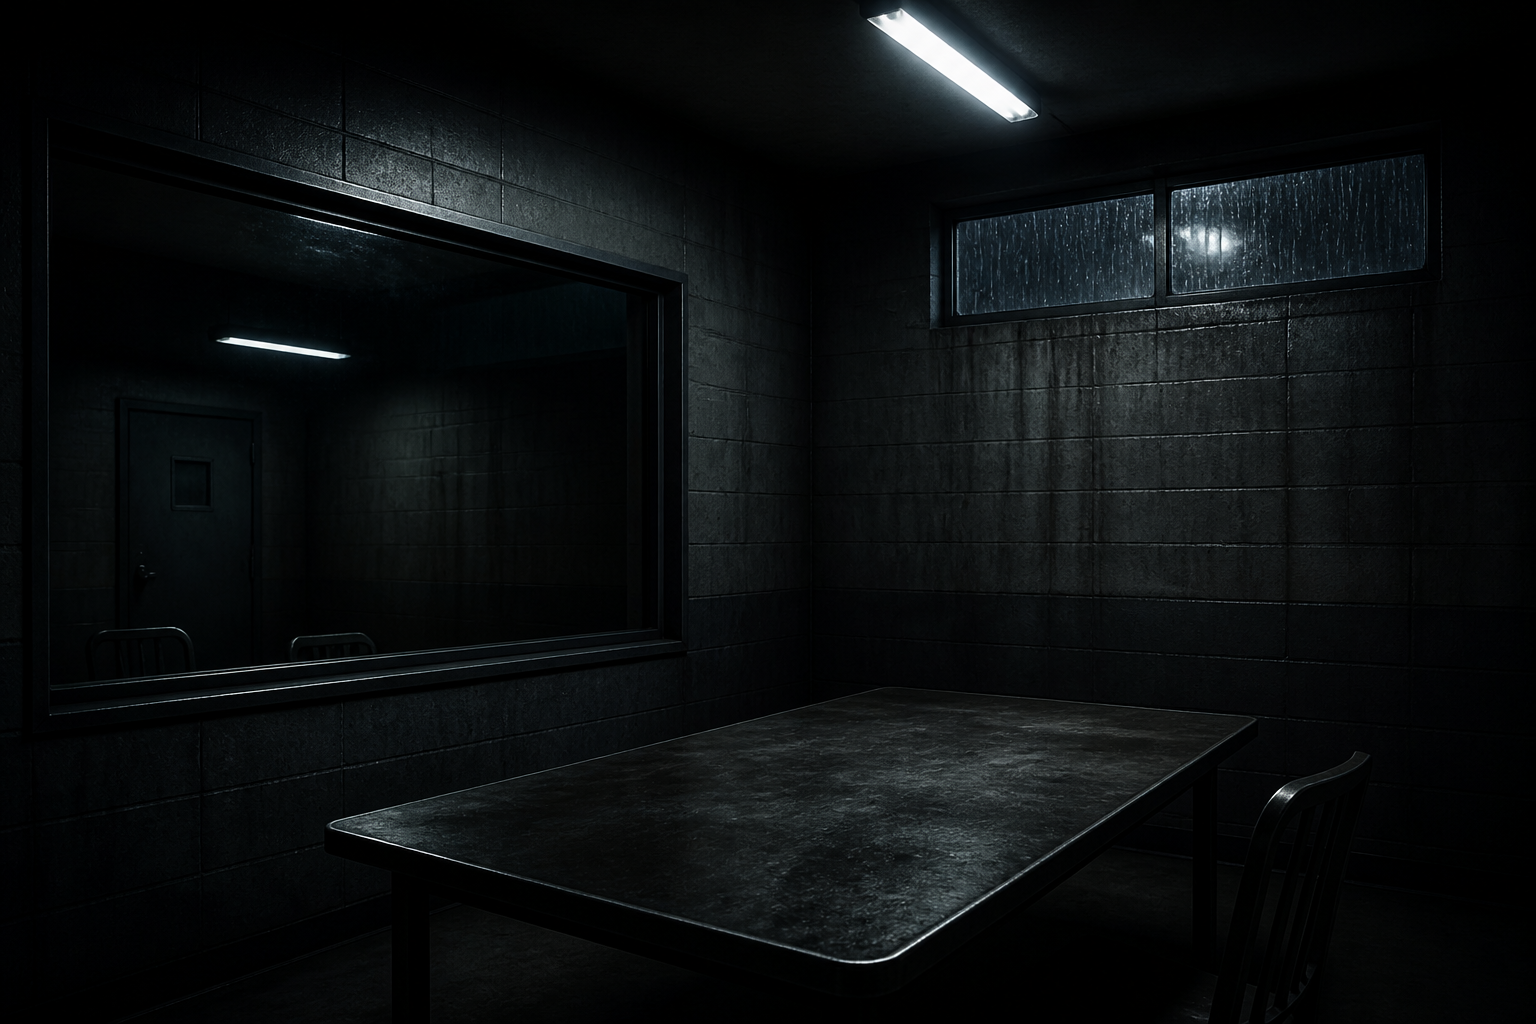
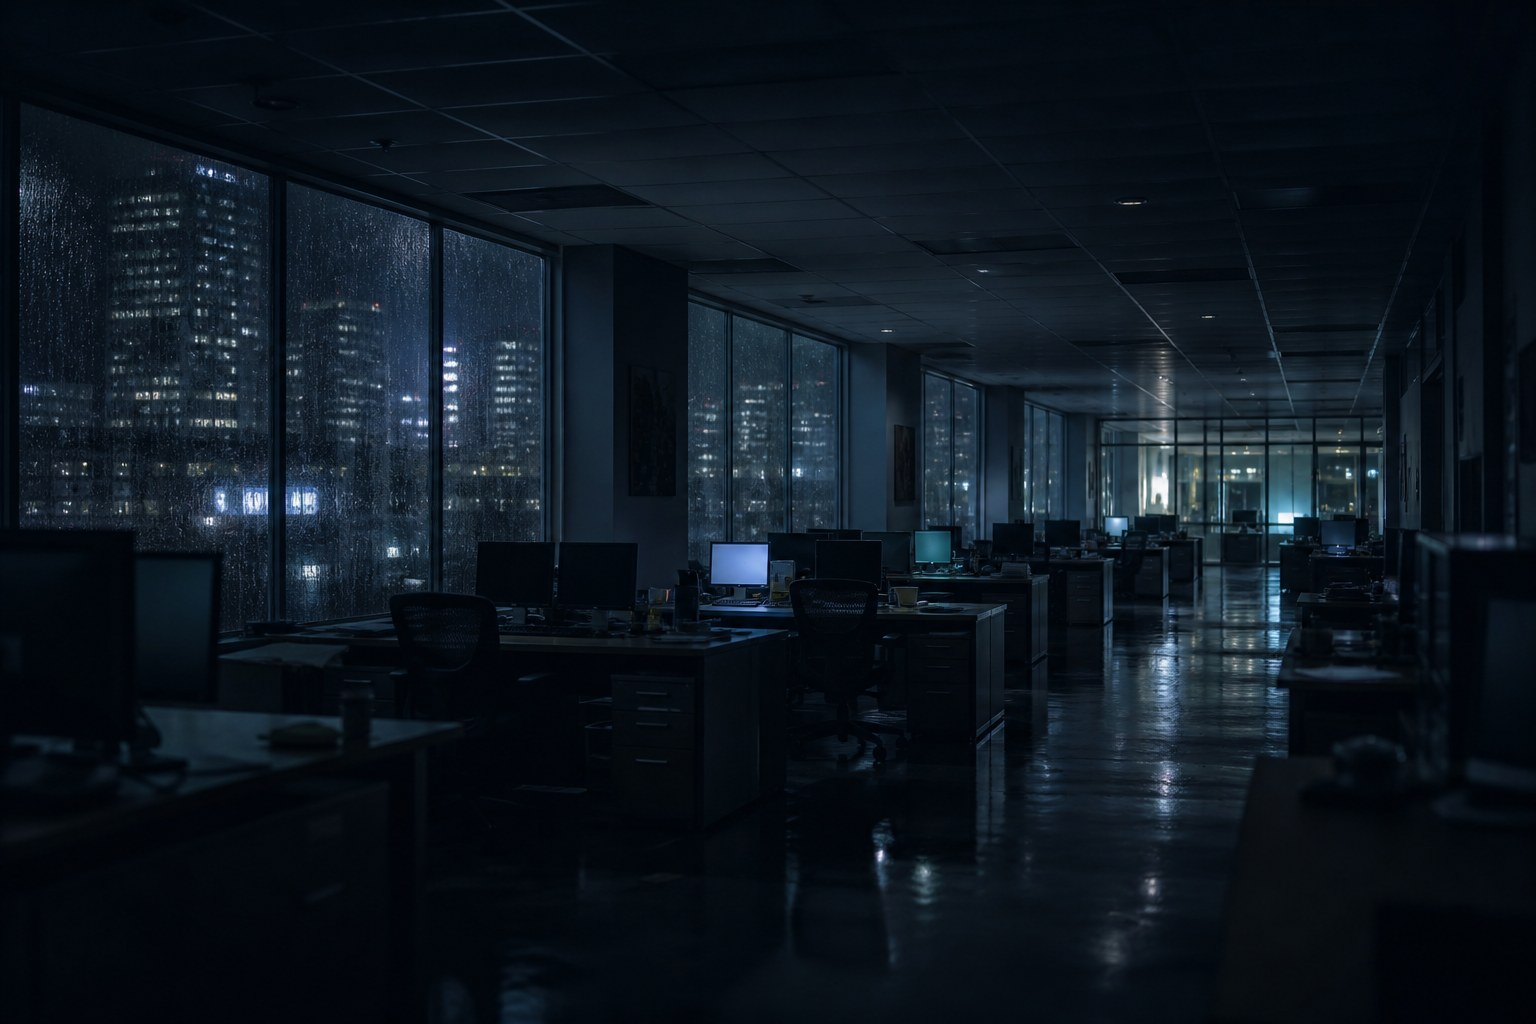
Swap game backdrop to overtime office and restyle dossier badge.
Match the 수사파일 chip to the flat pill overlay and drop Streamlit secondary button chrome.

diff --git a/app.py b/app.py
@@ -323,7 +323,7 @@ def _file_data_uri(path_str: str) -> str:
 
 
 def _inject_theme(*, mental: bool = False, revoked: bool = False) -> None:
-    # 저채도 블루그레이 — 눈 피로 완화 · 취조실 배경
+    # 저채도 블루그레이 — 눈 피로 완화 · 야근 오피스 배경
     accent = "#7A9BB8" if not mental and not revoked else "#8A9BB5"
     bg_url = html.escape(_browser_asset_url("ui/game_bg.jpg"), quote=True)
     st.markdown(
@@ -1200,10 +1200,11 @@ def _inject_theme(*, mental: bool = False, revoked: bool = False) -> None:
           min-height: 8px;
           line-height: 8px;
         }}
-        /* 카드 열: 프로필 뱃지 absolute 기준 */
+        /* 카드 열: 프로필 뱃지 absolute 기준 (정사각 이미지 = 100cqw) */
         div[data-testid="column"]:has(.suspect-pick-frame),
         div[data-testid="stColumn"]:has(.suspect-pick-frame) {{
           position: relative !important;
+          container-type: inline-size;
         }}
         div[data-testid="stElementContainer"]:has(.suspect-pick-frame),
         div[data-testid="stMarkdownContainer"]:has(.suspect-pick-frame) {{
@@ -1211,57 +1212,85 @@ def _inject_theme(*, mental: bool = False, revoked: bool = False) -> None:
           padding-bottom: 0 !important;
         }}
         /*
-          프로필 st.button = 이미지 바로 다음 요소.
-          문서 흐름에서 분리(absolute) → 라디오(이름)와 묶이지 않음.
-          이미지 안 우측 하단에 필 뱃지로 고정.
+          프로필 = HTML 필(7/31 레퍼런스) + 투명 hit 버튼.
+          Streamlit secondary 버튼 스타일(두꺼운 테두리·청회색 배경)을 쓰지 않음.
         */
-        div[data-testid="stElementContainer"]:has(.suspect-pick-frame)
-          + div[data-testid="stElementContainer"] {{
-          position: absolute !important;
-          right: 12px !important;
-          /* 이름 버튼 위 + 이미지 하단에서 안쪽으로 여백 */
-          bottom: calc(3.55rem + 12px) !important;
-          left: auto !important;
-          top: auto !important;
-          width: auto !important;
-          height: auto !important;
+        .suspect-pick-wrap .profile-pill {{
+          position: absolute;
+          right: 8px;
+          bottom: 8px;
+          z-index: 5;
+          display: inline-flex;
+          align-items: center;
+          justify-content: center;
+          padding: 0.26rem 0.7rem;
+          font-size: 0.72rem;
+          font-weight: 600;
+          letter-spacing: 0.02em;
+          line-height: 1.2;
+          border-radius: 999px;
+          color: #ffffff;
+          background: rgba(8, 10, 14, 0.92);
+          border: 1px solid rgba(255, 255, 255, 0.9);
+          box-shadow: none;
+          pointer-events: none;
+          white-space: nowrap;
+        }}
+        /* 앵커는 레이아웃에서 제거 */
+        div[data-testid="stElementContainer"]:has(.profile-badge-mark),
+        div[data-testid="stMarkdownContainer"]:has(.profile-badge-mark) {{
+          height: 0 !important;
+          min-height: 0 !important;
           margin: 0 !important;
           padding: 0 !important;
-          z-index: 60 !important;
+          border: 0 !important;
+          overflow: hidden !important;
+        }}
+        /* 투명 hit 영역 — 필과 같은 자리 */
+        div[data-testid="stColumn"]:has(.suspect-pick-frame)
+          div[data-testid="stElementContainer"]:has(.profile-badge-mark)
+          + div[data-testid="stElementContainer"] {{
+          position: absolute !important;
+          right: 0.4rem !important;
+          top: calc(100cqw - 2.2rem) !important;
+          left: auto !important;
+          bottom: auto !important;
+          width: 4.6rem !important;
+          height: 1.7rem !important;
+          margin: 0 !important;
+          padding: 0 !important;
+          z-index: 80 !important;
           background: transparent !important;
         }}
-        div[data-testid="stElementContainer"]:has(.suspect-pick-frame)
-          + div[data-testid="stElementContainer"] .stButton {{
-          margin: 0 !important;
-        }}
-        div[data-testid="stElementContainer"]:has(.suspect-pick-frame)
+        div[data-testid="stColumn"]:has(.suspect-pick-frame)
+          div[data-testid="stElementContainer"]:has(.profile-badge-mark)
+          + div[data-testid="stElementContainer"] .stButton,
+        div[data-testid="stColumn"]:has(.suspect-pick-frame)
+          div[data-testid="stElementContainer"]:has(.profile-badge-mark)
           + div[data-testid="stElementContainer"] .stButton > button,
-        div[data-testid="stElementContainer"]:has(.suspect-pick-frame)
+        div[data-testid="stColumn"]:has(.suspect-pick-frame)
+          div[data-testid="stElementContainer"]:has(.profile-badge-mark)
           + div[data-testid="stElementContainer"]
           .stButton > button[data-testid="baseButton-secondary"] {{
-          min-height: 1.55rem !important;
-          height: 1.55rem !important;
-          max-height: 1.55rem !important;
-          width: auto !important;
-          min-width: 0 !important;
-          padding: 0 0.72rem !important;
-          font-size: 0.72rem !important;
-          font-weight: 600 !important;
-          letter-spacing: 0.02em !important;
-          line-height: 1 !important;
+          margin: 0 !important;
+          width: 100% !important;
+          min-width: 100% !important;
+          max-width: 100% !important;
+          min-height: 1.7rem !important;
+          height: 1.7rem !important;
+          max-height: 1.7rem !important;
+          padding: 0 !important;
+          border: 0 !important;
           border-radius: 999px !important;
-          white-space: nowrap !important;
-          color: #f2f4f7 !important;
-          background-color: rgba(12, 14, 18, 0.82) !important;
+          background: transparent !important;
           background-image: none !important;
-          border: 1px solid rgba(255, 255, 255, 0.95) !important;
-          box-shadow: 0 2px 6px rgba(0, 0, 0, 0.45) !important;
-        }}
-        div[data-testid="stElementContainer"]:has(.suspect-pick-frame)
-          + div[data-testid="stElementContainer"] .stButton > button:hover {{
-          color: #f2f4f7 !important;
-          background-color: rgba(40, 52, 68, 0.95) !important;
-          border-color: #ffffff !important;
+          box-shadow: none !important;
+          outline: none !important;
+          color: transparent !important;
+          font-size: 0 !important;
+          line-height: 0 !important;
+          opacity: 0 !important;
+          cursor: pointer !important;
         }}
         [data-testid="stColumn"] .stButton {{
           margin-top: 0 !important;
@@ -2270,20 +2299,25 @@ def _pick_suspect(
                     f"font-size:1.2rem;line-height:1.2;'>{html.escape(name[:1])}</div>"
                 )
 
-            # 이미지 → 프로필(absolute 뱃지) → 이름(라디오) 분리
+            # 이미지+HTML 필 → 투명 hit 버튼 → 이름(라디오)
             st.markdown(
                 f'<div class="suspect-pick-frame">'
                 f'<div class="suspect-pick-wrap" style="border:{border};'
                 f'border-radius:6px;">'
                 f"{img_html}"
+                f'<span class="profile-pill">수사파일</span>'
                 f"</div></div>",
+                unsafe_allow_html=True,
+            )
+            st.markdown(
+                '<div class="profile-badge-mark" aria-hidden="true"></div>',
                 unsafe_allow_html=True,
             )
             if st.button(
                 "수사파일",
                 key=f"suspect_profile_{sid}",
                 type="secondary",
-                help=f"{name} 수사 파일",
+                help=f"{name} 수사파일",
             ):
                 st.session_state["pending_dossier_id"] = sid
                 st.rerun()
